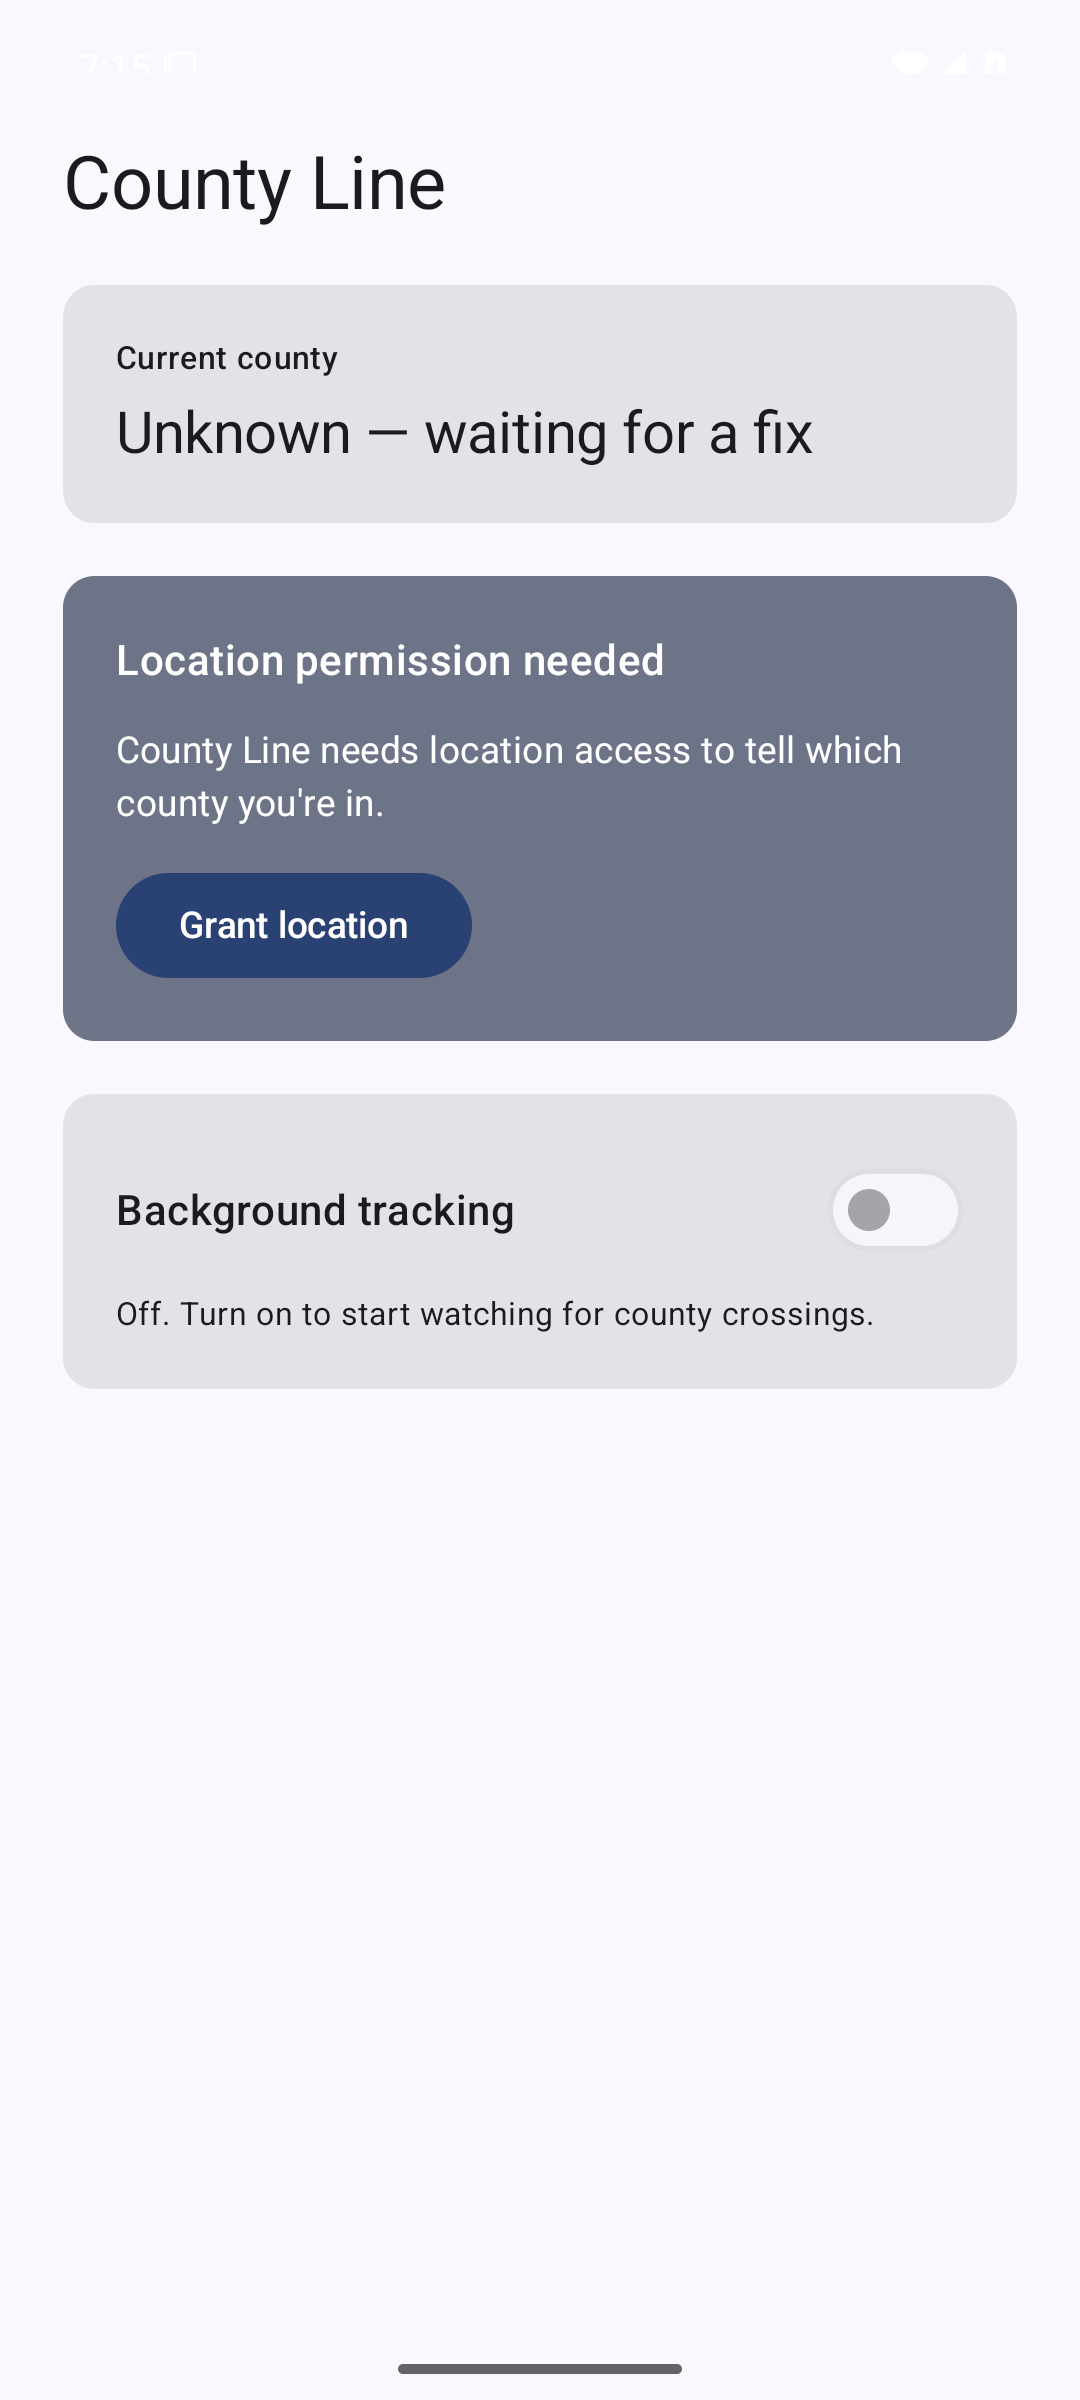
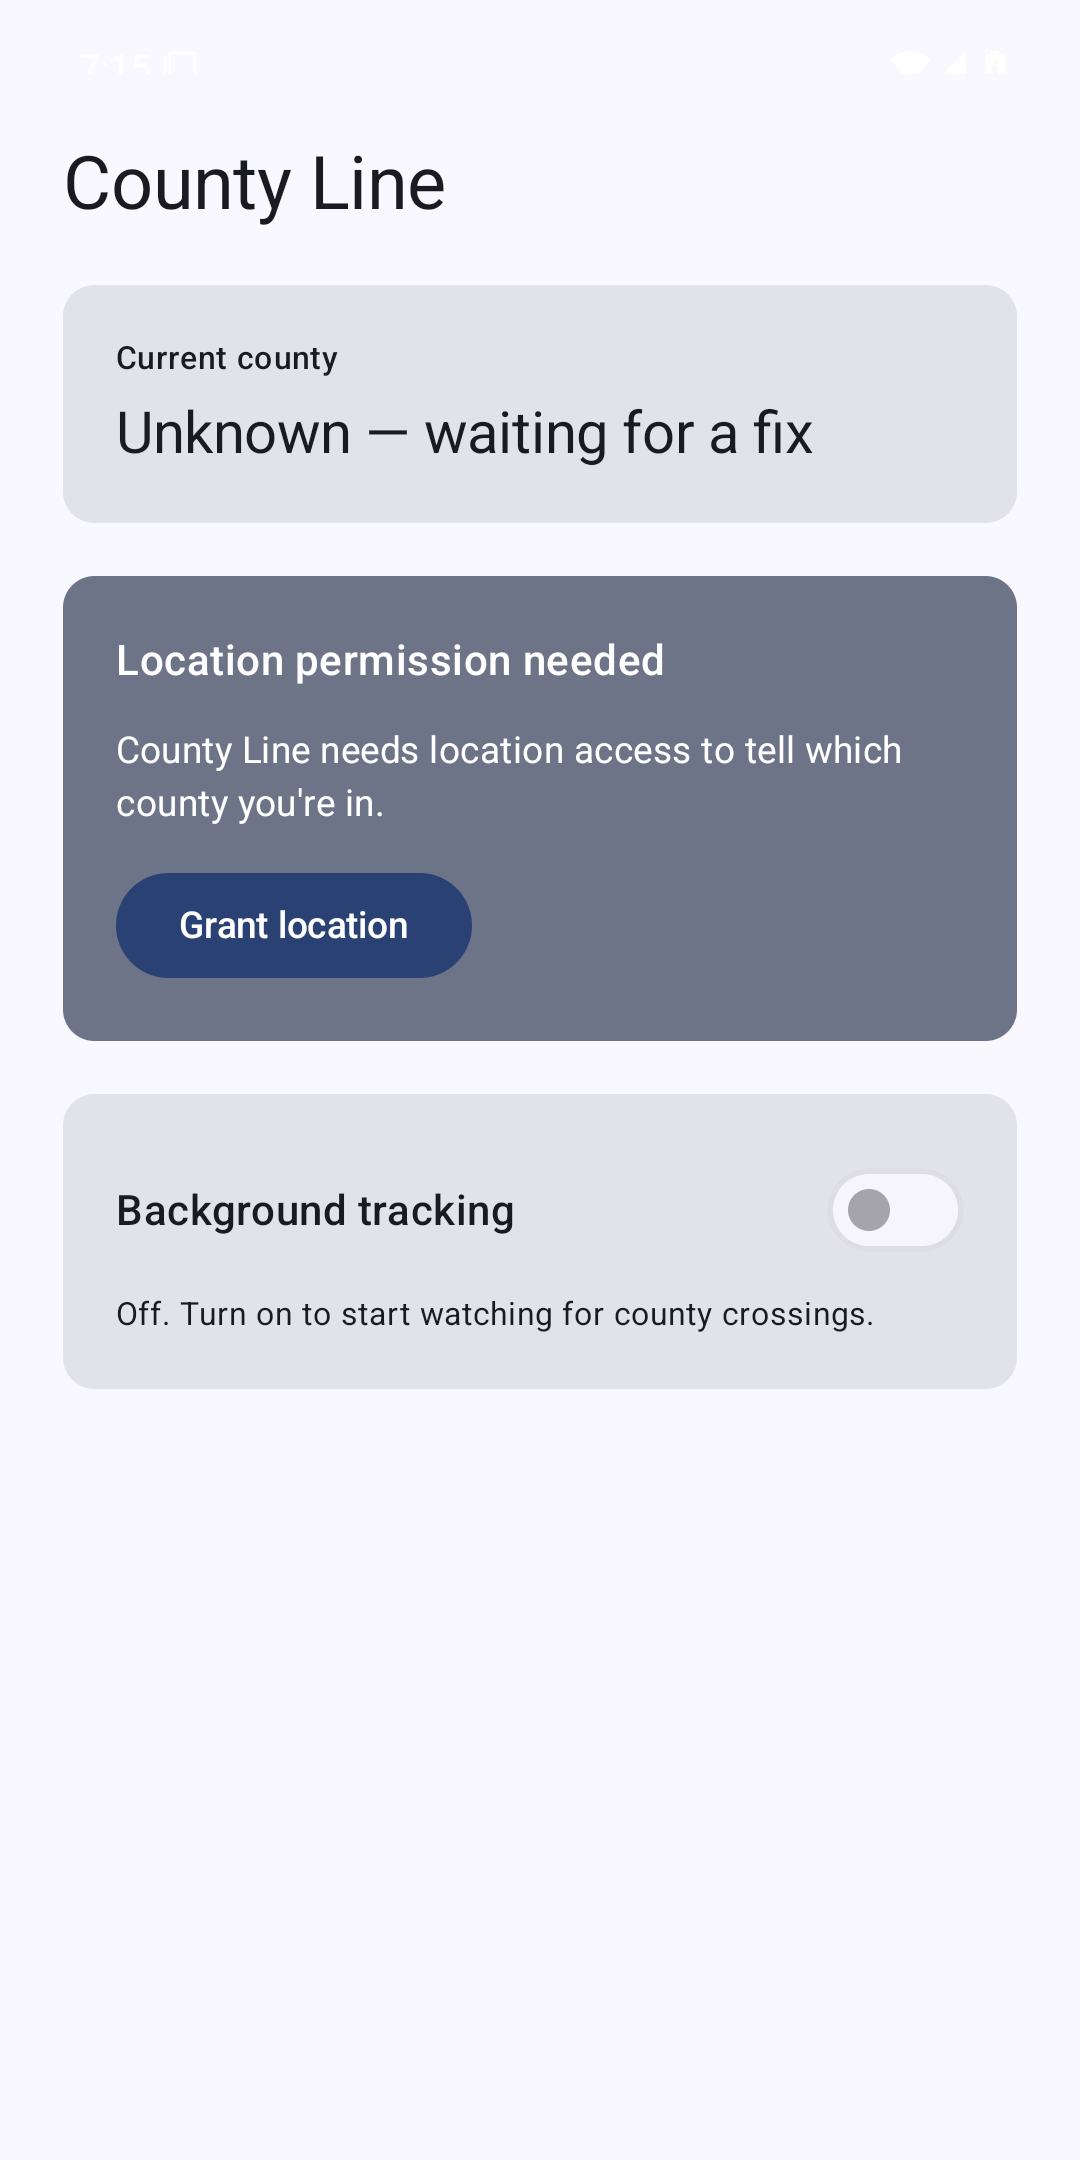
fix(store): make graphic assets Play-compliant (#9)
- Feature graphic: flatten RGBA -> RGB (Play rejects alpha on feature graphics).
- Screenshots: crop 1080x2400 (1:2.22) -> 1080x2160 (2:1) to fit Play's aspect /
  max-2x-min limits; all content still visible.
- RELEASING.md graphics table updated with exact Play Console field mapping.

Claude-Session: https://claude.ai/code/session_01CTmr6ZYXDQgkwUKJ6yBPrT

diff --git a/RELEASING.md b/RELEASING.md
@@ -103,14 +103,20 @@ you background detection is off.
 
 ### Graphics (`docs/store/`)
 
-| Asset | File | Spec |
+| Play Console field | Upload | Format |
 |---|---|---|
-| App icon | `icon-512.png` | 512×512, 32-bit PNG |
-| Feature graphic | `feature-graphic-1024x500.png` | 1024×500 |
-| Phone screenshots | `screenshots/1-permission.png`, `2-active.png`, `3-disclosure.png` | 1080×2400 |
+| **App icon** | `icon-512.png` | 512×512 PNG, 32-bit (alpha OK) |
+| **Feature graphic** | `feature-graphic-1024x500.png` | 1024×500 PNG/JPEG, **no alpha** |
+| **Phone screenshots** (2–8) | `screenshots/1-permission.png`, `2-active.png`, `3-disclosure.png` | 1080×2160 PNG (2:1, within Play's 320–3840 px / max-2×-min limits) |
 
-The SVG sources (`icon.svg`, `feature-graphic.svg`) are alongside the PNGs if you want to
-tweak them (`rsvg-convert -w W -h H in.svg -o out.png`).
+No tablet, TV, or Wear screenshots are needed unless you add those form factors.
+
+The SVG sources (`icon.svg`, `feature-graphic.svg`) are alongside the PNGs; re-render with
+`rsvg-convert -w W -h H in.svg -o out.png` then flatten the feature graphic to RGB
+(`python3 -c "from PIL import Image; Image.open('f.png').convert('RGB').save('f.png')"`).
+
+> Screenshots are emulator captures with dead space at the bottom — compliant, but **retake
+> them on a real device** during internal testing for a better listing.
 
 > The bundled screenshots are emulator captures — fine to launch with, but **retake them on
 > a real device** during internal testing for the best listing.
